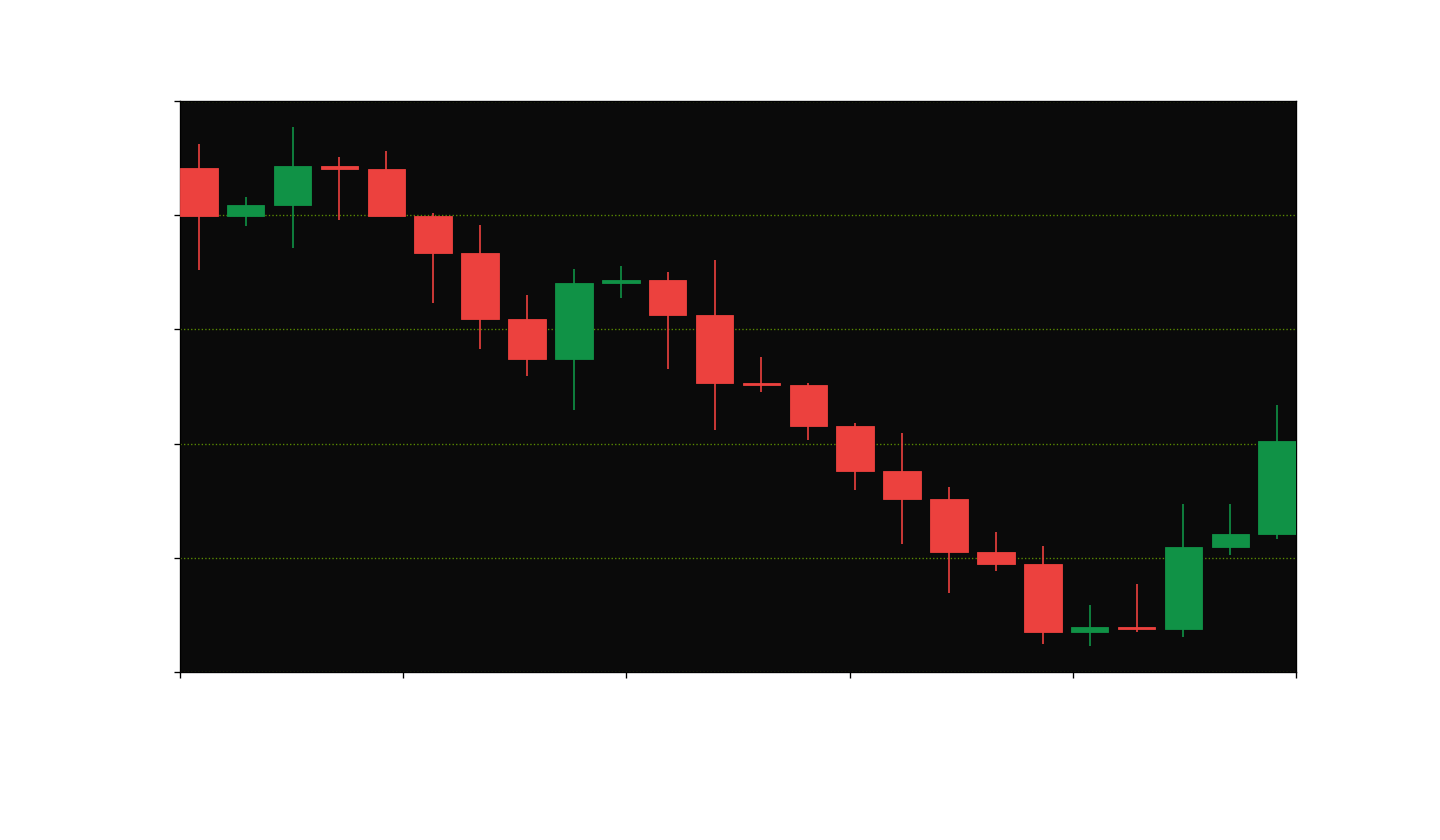
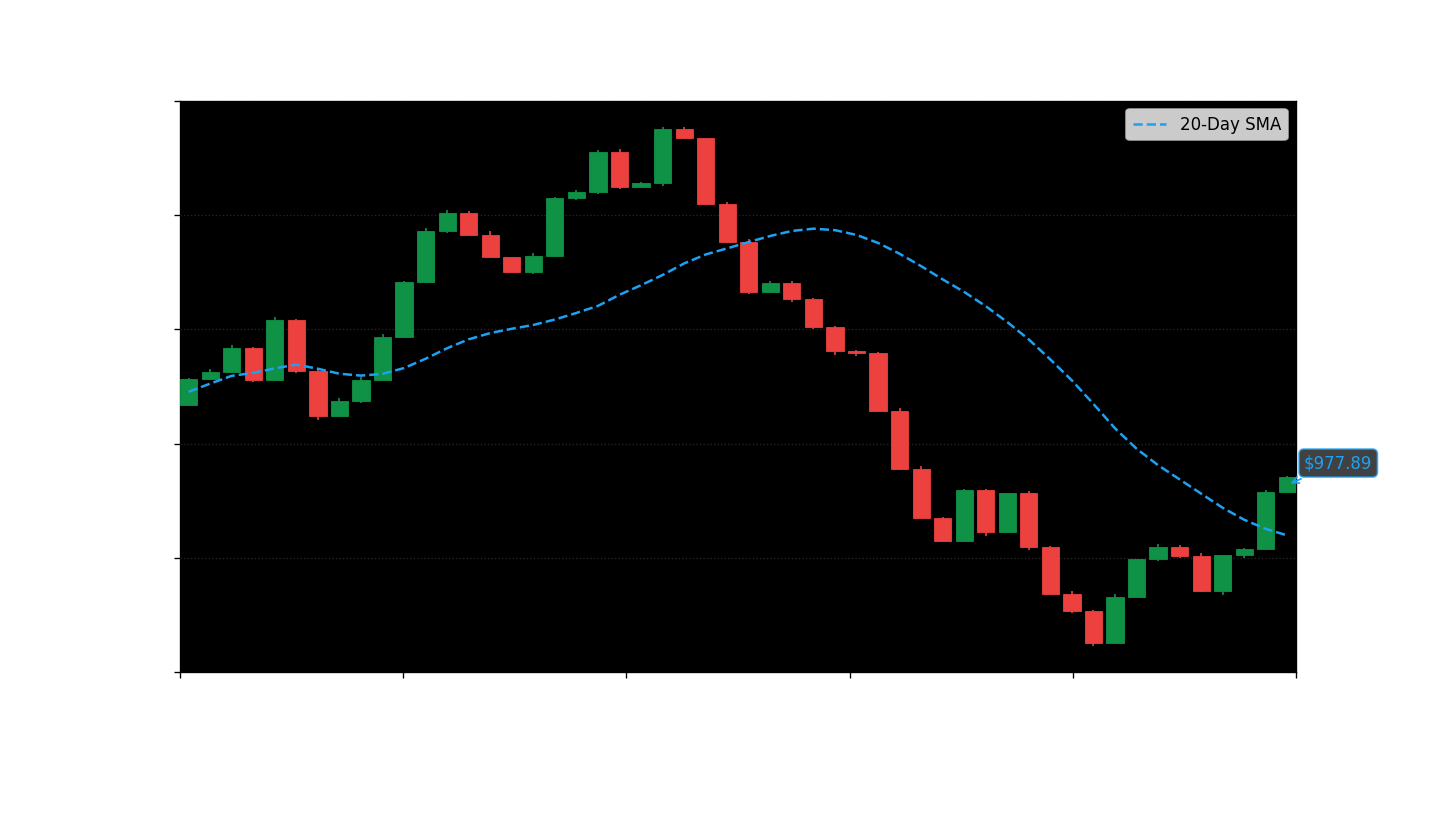
updated legend and SMA logic. created helpers to clean up

diff --git a/src/backend/mcp_servers/mcp_chart_generation/server.py b/src/backend/mcp_servers/mcp_chart_generation/server.py
@@ -70,17 +70,16 @@ def generate_line_chart(
     fig, ax = build_base_chart(dt_dates, prices, symbol, effective_theme)
 
     if advanced:
-        # 3-day Simple Moving Average
-        sma = [
-            sum(prices[max(0, i - 2) : i + 1]) / len(prices[max(0, i - 2) : i + 1])
-            for i in range(len(prices))
-        ]
+        # Calculate and plot SMA 
+        period = get_sma_period(dt_dates)
+        sma = calculate_sma(dt_dates, period)
+
         ax.plot(
             dt_dates, sma,
             color=effective_theme.get("trend_line", "gold"),
             linestyle=effective_theme.get("trend_line_style", "--"),
             linewidth=1.5,
-            label="3-Day Trend"
+            label=f"{period}-Day Trend"
         )
 
         # Annotate the latest price
@@ -99,6 +98,10 @@ def generate_line_chart(
             ),
             color=effective_theme.get("annotation_text", "black"),
         )
+
+    # Legend logic
+    legend_loc = "upper left" if prices[-1] >= prices[0] else "upper right"
+    ax.legend(loc=legend_loc)
 
     return render_chart_to_image(fig)
 
@@ -141,6 +144,42 @@ def generate_candlestick_chart(
     fig, ax = build_candlestick_chart(
         dt_dates, opens, highs, lows, closes, symbol, effective_theme
     )
+
+    # Calculate and plot SMA 
+    midpoints = [(o + c) / 2 for o, c in zip(opens, closes)]
+    period = get_sma_period(dt_dates)
+    sma = calculate_sma(midpoints, period)
+
+    ax.plot(
+        dt_dates, sma,
+        color=effective_theme.get("trend_line", "gold"),
+        linestyle=effective_theme.get("trend_line_style", "--"),
+        linewidth=1.5,
+        label=f"{period}-Day SMA",
+        zorder = 5
+    )
+
+    # Annotate the latest price
+    ax.annotate(
+        f"${(opens[-1] + closes[-1])/2:.2f}",
+        xy=(dt_dates[-1], (opens[-1] + closes[-1])/2),
+        xytext=(10, 10),
+        textcoords="offset points",
+        arrowprops=dict(arrowstyle="->", color=effective_theme.get("annotation_edge", "black")),
+        bbox=dict(
+            boxstyle="round,pad=0.3",
+            fc=effective_theme.get("annotation_background", "yellow"),
+            ec=effective_theme.get("annotation_edge", "black"),
+            lw=1,
+            alpha=0.8
+        ),
+        color=effective_theme.get("annotation_text", "black"),
+        zorder = 5
+    )
+
+    # Legend logic
+    legend_loc = "upper left" if closes[-1] >= opens[0] else "upper right"
+    ax.legend(loc=legend_loc)
     
     return render_chart_to_image(fig)
 

diff --git a/src/backend/mcp_servers/mcp_chart_generation/chart_helper_functions.py b/src/backend/mcp_servers/mcp_chart_generation/chart_helper_functions.py
@@ -131,10 +131,6 @@ def build_base_chart(
         color=theme.get("grid", "#cccccc")
     )
 
-    # Legend logic
-    legend_loc = "upper left" if prices[-1] >= prices[0] else "upper right"
-    ax.legend(loc=legend_loc)
-
     # Format x‑axis labels
     fig.autofmt_xdate(rotation=0, ha="center")
     labels = ax.get_xticklabels()
@@ -344,6 +340,7 @@ def build_candlestick_chart(
         mdates.date2num(dt_dates[-1]) + half_width,
     )
 
+    # Calculate and apply locator and formatter
     locator, formatter = get_date_locator_and_formatter(dt_dates)
     ax.xaxis.set_major_locator(locator)
     ax.xaxis.set_major_formatter(formatter)
@@ -357,6 +354,7 @@ def build_candlestick_chart(
     yticks = np.linspace(ymin, ymax, TICK_NUMBER)
     ax.set_yticks(yticks)
 
+    # Format x‑axis labels
     fig.autofmt_xdate(rotation=0, ha="center")
     labels = ax.get_xticklabels()
     if labels:
@@ -419,3 +417,27 @@ def get_date_locator_and_formatter(dt_dates: list) -> tuple[mdates.DateLocator, 
         fmt = "%Y"
 
     return locator, mdates.DateFormatter(fmt)
+
+def calculate_sma(prices: list[float], period: int = 3) -> list[float]:
+    """
+    Returns a list of SMA values aligned with the input prices.
+    The first (period - 1) values are None (not enough data yet).
+    """
+    sma = []
+    for i in range(len(prices)):
+        window = prices[max(0, i - period + 1) : i + 1]
+        sma.append(sum(window) / len(window))
+    return sma
+
+def get_sma_period(dt_dates):
+    span = dt_dates[-1] - dt_dates[0]
+    total_days = span.total_seconds() / 86400
+
+    if total_days <= 1:    # intraday
+        return 9
+    elif total_days <= 30: # days/weeks
+        return 10
+    elif total_days <= 365: # months
+        return 20
+    else:                  # years
+        return 50

diff --git a/src/backend/mcp_servers/mcp_chart_generation/test_server.py b/src/backend/mcp_servers/mcp_chart_generation/test_server.py
@@ -9,9 +9,9 @@ from example_themes import *
 
 THEMES = [NVIDIA_THEME, AMD_THEME, META_THEME, X_THEME]
 
-START_PRICE = 76.12 # start price for dummy prices
-PRICE_DEVIATION = 2.5 # how far a new price may deviate from the last price
-NUMBER_OF_POINTS = 24 # number of price points (corresponds with date/time points)
+START_PRICE = 1011 # start price for dummy prices
+PRICE_DEVIATION = 30 # how far a new price may deviate from the last price
+NUMBER_OF_POINTS = 52 # number of price points (corresponds with date/time points)
 
 WICK_EXTENSION = 1.5 # max extra range beyond open/close for high/low wicks
 
@@ -106,11 +106,11 @@ def test_candlestick_generation(dates):
 if __name__ == "__main__":
     # Simulate Data: Generate dummy stock data
     base_date = datetime.now()
-    # dates = [(base_date - timedelta(weeks=i)).isoformat() for i in range(52)] # 1-YEAR weekly trend
+    dates = [(base_date - timedelta(weeks=i)).isoformat() for i in range(52)] # 1-YEAR weekly trend
     # dates = [(base_date - timedelta(days=i)).isoformat() for i in range(30)] # 1-MONTH daily trend
     # dates = [(base_date - timedelta(days=i)).isoformat() for i in range(14)] # 2-WEEK daily trend
     # dates = [(base_date - timedelta(hours=i)).isoformat() for i in range(72)] #  3-DAY hourly trend
-    dates = [(base_date - timedelta(hours=i)).isoformat() for i in range(24)] # 1-DAY hourly trend
+    # dates = [(base_date - timedelta(hours=i)).isoformat() for i in range(24)] # 1-DAY hourly trend
     # dates = [(base_date - timedelta(minutes=i)).isoformat() for i in range(60)] # 1-HOUR minutely trend
     dates.reverse() # Sort chronologically
 
